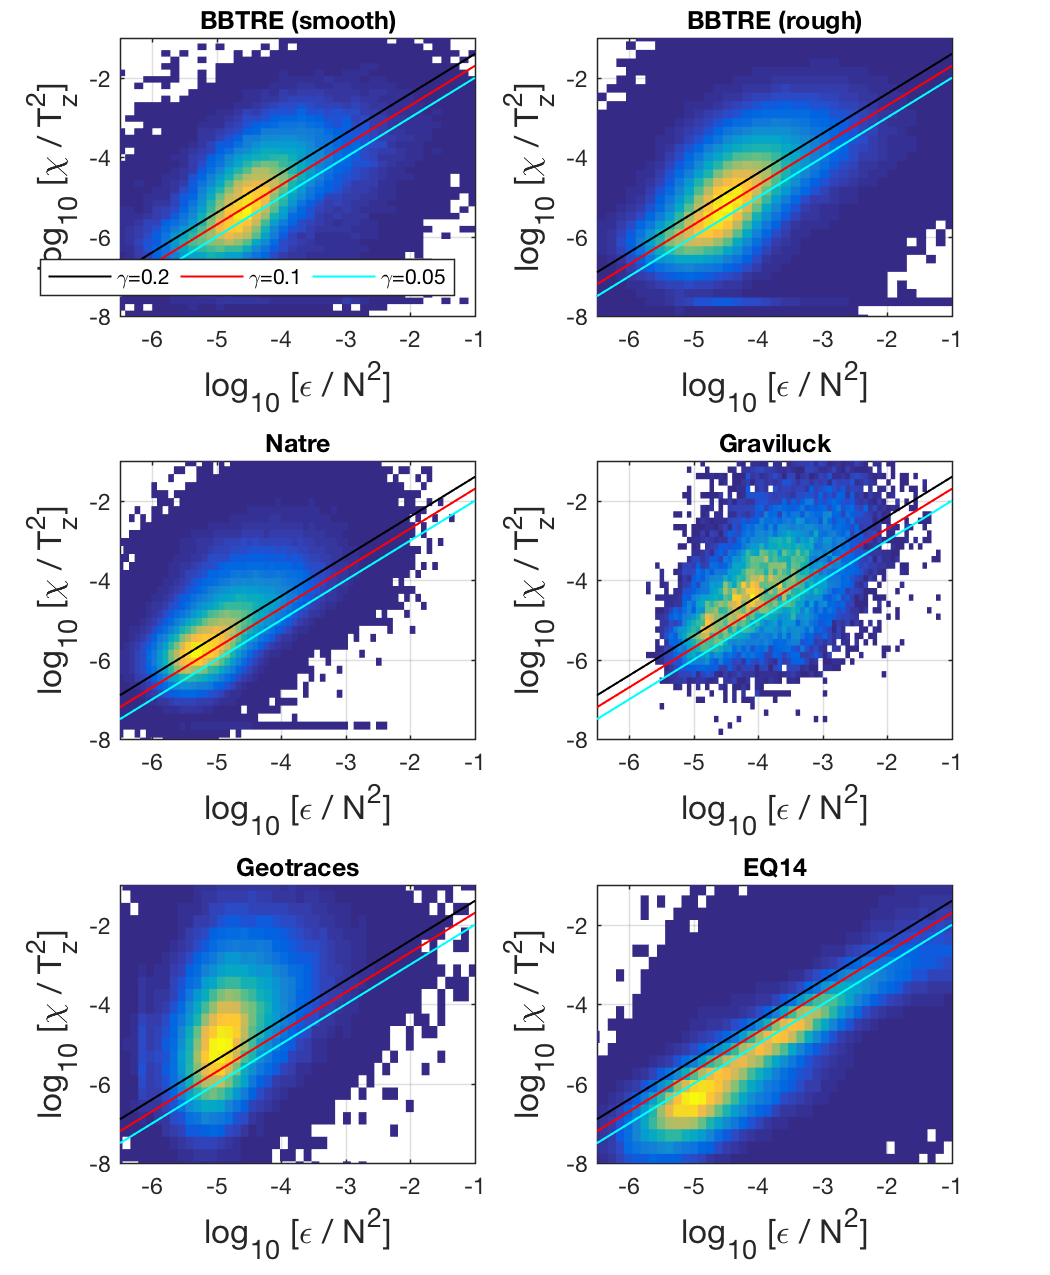
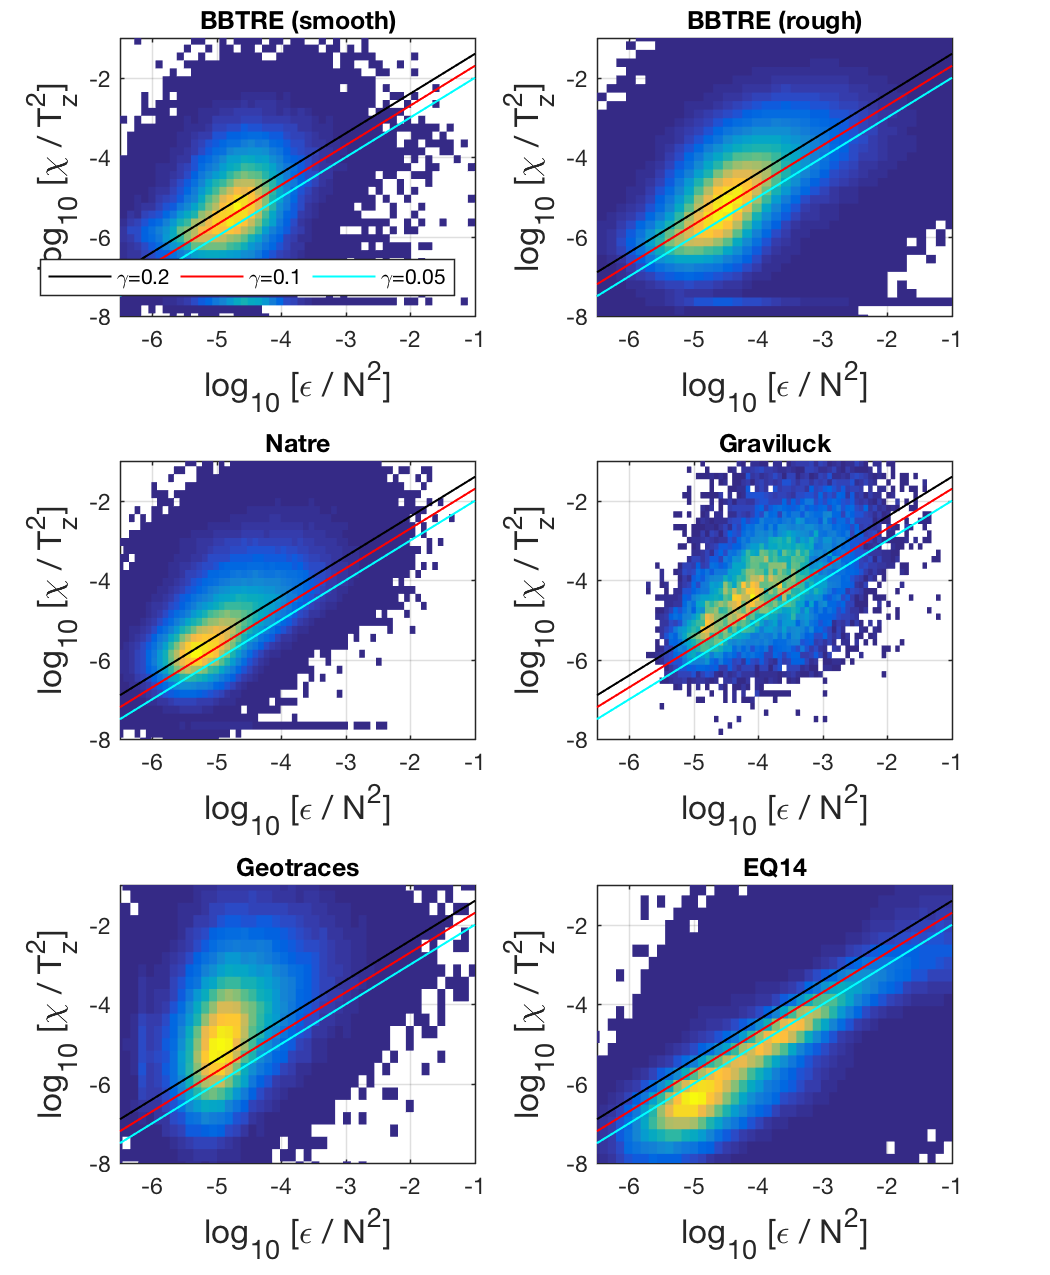
use function to load data

Changed region(s): [[0.0914, 0.0306, 0.4571, 0.2753]]

diff --git a/Andy_Pickering/micro_database/Plot_chi_eps_norm_all.m b/Andy_Pickering/micro_database/Plot_chi_eps_norm_all.m
@@ -11,10 +11,10 @@
 clear ; close all
 
 
-eps_thresh=0
-eps_floor=-10
+eps_thresh =  1
+eps_floor  = -10
 
-my_data_dir = '/Users/Andy/Google Drive/ChiCalculations/data/'
+%my_data_dir = '/Users/Andy/Google Drive/ChiCalculations/data/'
 fig_dir = '/Users/Andy/Cruises_Research/Analysis/Andy_Pickering/micro_database/figures'
 addpath /Users/Andy/Cruises_Research/Analysis/Andy_Pickering/gen_mfiles/
 
@@ -29,241 +29,16 @@ for i = [1:3,5,10]
     % close all
     clear tnm K presK Kt hrp hrp96 hrp97
     
-    if i == 3
-        
-        clear eps chi N2 dTdz hrp
-        
-        tnm = 'Natre';
-        %load('../../data/natre/natre_hrp_for_map.mat')
-        load( fullfile( my_data_dir,'natre','natre_hrp_for_map.mat'))
-        
-        K = 0.2 * hrp.eps ./ hrp.N2;
-        presK = hrp.pres;
-        
-        KT = 0.5 *  hrp.chit(1:end-1,:) ./ (diff(hrp.temp)./diff(hrp.pres)).^2;
-        
-        eps = hrp.eps;
-        chi = hrp.chit;
-        N2  = hrp.N2;
-        dTdz = (diffs(hrp.temp)./diffs(hrp.pres));% dTdz = [dTdz(:) ; nan];
-        eps_chi = N2 .* chi / 2 / 0.2 ./ (dTdz.^2);
-        
-    elseif i == 1
-        
-        clear hrp hrp96 hrp97 K KT eps chi N2 dTdz
-        tnm = 'BBTRE (smooth)';
-        %load('../../data/bbtre/bbtre_hrp_for_map.mat')
-        load( fullfile( my_data_dir,'bbtre','bbtre_hrp_for_map.mat'))
-        hrp96=hrp;  %[1:20,71:75]
-        %load('../../data/bbtre/bbtre97_hrp_for_map.mat')
-        load( fullfile( my_data_dir,'bbtre','bbtre97_hrp_for_map.mat'))
-        %hrp97=hrp;  % 1:36
-        % why isn't hrp97 used?
-        
-        % Krho?
-        hrp_bbtre_smooth = 0.2*([hrp96.eps(:, [2:5,7:20,71:74])])./([hrp96.N2(:, [2:5,7:20,71:74])]);
-        
-        K = hrp_bbtre_smooth;
-        presK=hrp96.pres(:, [2:5,7:20,71:74]);
-        
-        KT = 0.5 * hrp96.chit(1:end-1,[2:5,7:20,71:74]) ./ (diff(hrp96.temp(:,[2:5,7:20,71:74]))./diff(hrp96.pres(:,[2:5,7:20,71:74]))).^2;
-        
-        eps = hrp.eps(:, [2:5,7:20,71:74]);
-        chi = hrp.chit(:, [2:5,7:20,71:74]);
-        N2  = hrp.N2(:, [2:5,7:20,71:74]);
-        dTdz= (diffs(hrp.temp(:, [2:5,7:20,71:74]))./diffs(hrp.pres(:, [2:5,7:20,71:74])));% dTdz = [dTdz(:) ; nan];
-        eps_chi = N2 .* chi / 2 / 0.2 ./ (dTdz.^2);
-        
-        
-    elseif i == 2
-        
-        clear hrp hrp96 hrp97 K KT eps chi N2 dTdz
-        
-        tnm = 'BBTRE (rough)';
-        %load('../../data/bbtre/bbtre_hrp_for_map.mat')
-        load( fullfile( my_data_dir,'bbtre','bbtre_hrp_for_map.mat'))
-        hrp96=hrp;
-        %load('../../data/bbtre/bbtre97_hrp_for_map.mat')
-        load(fullfile(my_data_dir,'bbtre','bbtre97_hrp_for_map.mat'))
-        hrp97=hrp;
-        
-        % Krho?
-        % mixed hrp96 and hrp97?
-        hrp_bbtre_rough = 0.2*([hrp96.eps(1:10815,[1,6,21:70,75]) hrp97.eps(:,1:end)])./([hrp96.N2(1:10815,[1,6,21:70,75]) hrp97.N2(:,1:end)]);
-        K = hrp_bbtre_rough;
-        
-        presK = [hrp96.pres(1:10815,[1,6,21:70,75]) hrp97.pres(:,1:end)];
-        
-        KT = 0.5 * ([hrp96.chit(1:10815-1,[1,6,21:70,75]) hrp97.chit(1:end-1,1:end)])./  (diff([hrp96.temp(1:10815,[1,6,21:70,75]) hrp97.temp(:,1:end)])./diff([hrp96.pres(1:10815,[1,6,21:70,75]) hrp97.pres(:,1:end)])).^2;
-        
-        clear temp p
-        temp = [hrp96.temp(1:10815,[1,6,21:70,75]) hrp97.temp(:,1:end)];
-        p= [hrp96.pres(1:10815,[1,6,21:70,75]) hrp97.pres(:,1:end)];
-        
-        eps = [hrp96.eps(1:10815,[1,6,21:70,75]) hrp97.eps(:,1:end)];
-        chi = [hrp96.chit(1:10815,[1,6,21:70,75]) hrp97.chit(:,1:end)];%hrp.chit;
-        N2  = [hrp96.N2(1:10815,[1,6,21:70,75]) hrp97.N2(:,1:end)];%hrp.N2;
-        dTdz= diffs(temp)./diffs(p);% dTdz = [dTdz(:) ; nan];
-        eps_chi = N2 .* chi / 2 / 0.2 ./ (dTdz.^2);
-        
-    elseif i == 4
-        
-        %** missing chi? **
-        
-        clear hrp hrp96 hrp97 K KT eps chi N2 dTdz
-        
-        tnm = 'Ladder';
-        %load('../../data/ladder/ladder_hrp_for_map.mat')
-        load (fullfile( my_data_dir,'ladder','ladder_hrp_for_map.mat'))
-        K = 0.2 * hrp.eps ./ hrp.N2;
-        presK = hrp.pres;
-        
-        KT = 0.5 *  hrp.chit(1:end-1,:) ./ (diff(hrp.temp)./diff(hrp.pres)).^2;
-        
-        eps = hrp.eps;
-        chi = hrp.chit;
-        N2  = hrp.N2;
-        dTdz= (diffs(hrp.temp)./diffs(hrp.pres));% dTdz = [dTdz(:) ; nan];
-        eps_chi = N2 .* chi / 2 / 0.2 ./ (dTdz.^2);
-        
-        
-    elseif i == 5
-        
-        tnm = 'Graviluck';
-        
-        clear hrp hrp96 hrp97 K KT eps chi N2 dTdz
-        
-        % only plot down to 2216m since below that one profile exists
-        %load('../../data/graviluck/graviluck_hrp_for_map.mat')
-        load(fullfile(my_data_dir,'graviluck','graviluck_hrp_for_map.mat'))
-        K = 0.2 * hrp.eps ./ hrp.N2;
-        presK = hrp.pres;
-        
-        KT = 0.5 *  hrp.chit(1:end-1,:) ./ (diff(hrp.temp)./diff(hrp.pres)).^2;
-        
-        eps = hrp.eps;
-        chi = hrp.chit;
-        N2  = hrp.N2;
-        dTdz= (diffs(hrp.temp)./diffs(hrp.pres));% dTdz = [dTdz(:) ; nan];
-        eps_chi = N2 .* chi / 2 / 0.2 ./ (dTdz.^2);
-        
-    elseif i == 6
-        
-        %** no chi **
-        
-        clear hrp hrp96 hrp97 K KT eps chi N2 dTdz
-        
-        tnm= 'Fieberling';
-        %load('../../data/fieberling/fieberling_hrp_for_map.mat')
-        load( fullfile( my_data_dir,'fieberling','fieberling_hrp_for_map.mat'))
-        K = 0.2 * hrp.eps ./ hrp.N2;
-        presK = hrp.pres;
-        
-        KT = 0.5 *  hrp.chit(1:end-1,:) ./ (diff(hrp.temp)./diff(hrp.pres)).^2;
-        
-        eps = hrp.eps;
-        chi = hrp.chit;
-        N2  = hrp.N2;
-        dTdz= (diffs(hrp.temp)./diffs(hrp.pres));% dTdz = [dTdz(:) ; nan];
-        eps_chi = N2 .* chi / 2 / 0.2 ./ (dTdz.^2);
-        
-    elseif i == 7
-        
-        % ** no chi?
-        
-        clear hrp K KT eps chi N2 dTdz
-        
-        tnm= 'Dimes_{DP}';
-        %load('../../data/dimes/dimes_hrp_for_map.mat')
-        load( fullfile( my_data_dir,'dimes','dimes_hrp_for_map.mat'))
-        K = 0.2 * hrp.eps ./ hrp.N2;
-        presK = hrp.pres;
-        
-        KT = 0.5 *  hrp.chit(1:end-1,:) ./ (diff(hrp.temp)./diff(hrp.pres)).^2;
-        
-        eps = hrp.eps;
-        chi = hrp.chit;
-        N2  = hrp.N2;
-        dTdz= (diffs(hrp.temp)./diffs(hrp.pres));% dTdz = [dTdz(:) ; nan];
-        eps_chi = N2 .* chi / 2 / 0.2 ./ (dTdz.^2);
-        
-    elseif i == 8
-        
-        clear hrp K KT eps chi N2 dTdz
-        
-        tnm= 'Dimes_{West}';
-        %load('../../data/dimes/dimes_pacific_hrp_for_map.mat')
-        load( fullfile( my_data_dir,'dimes','dimes_pacific_hrp_for_map.mat'))
-        K = 0.2 * hrp.eps ./ hrp.N2;
-        presK = hrp.pres;
-        
-        KT = 0.5 *  hrp.chit(1:end-1,:) ./ (diff(hrp.temp)./diff(hrp.pres)).^2;
-        
-        eps = hrp.eps;
-        chi = hrp.chit;
-        N2  = hrp.N2;
-        dTdz= (diffs(hrp.temp)./diffs(hrp.pres));% dTdz = [dTdz(:) ; nan];
-        eps_chi = N2 .* chi / 2 / 0.2 ./ (dTdz.^2);
-        
-    elseif i == 9
-        
-        clear hrp K KT eps chi N2 dTdz
-        
-        tnm= 'Toto';
-        %load('../../data/toto/toto_hrp_for_map.mat')
-        load( fullfile( my_data_dir, 'toto','toto_hrp_for_map.mat'))
-        K = 0.2 * hrp.eps ./ hrp.N2;
-        presK = hrp.pres;
-        
-        KT = 0.5 *  hrp.chit(1:end-1,:) ./ (diff(hrp.temp)./diff(hrp.pres)).^2;
-        
-        eps = hrp.eps;
-        chi = hrp.chit;
-        N2  = hrp.N2;
-        dTdz= (diffs(hrp.temp)./diffs(hrp.pres));% dTdz = [dTdz(:) ; nan];
-        eps_chi = N2 .* chi / 2 / 0.2 ./ (dTdz.^2);
-        
-    elseif i == 10
-        tnm = 'Geotraces';
-        % * note chi, not chit
-        clear K KT eps chi N2 dTdz eps_chi
-        %load('../../data/geotraces/geotraces_hrp_for_map.mat');
-        load( fullfile( my_data_dir,'geotraces','geotraces_hrp_for_map.mat'))
-        K = 0.2 * hrp.eps ./ hrp.N2;
-        presK = hrp.pres;
-        
-        KT = 0.5 *  hrp.chi(1:end-1,:) ./ (diff(hrp.temp)./diff(hrp.pres)).^2;
-        
-        eps = hrp.eps;
-        chi = hrp.chi;
-        N2  = hrp.N2;
-        dTdz= (diffs(hrp.temp)./diffs(hrp.pres));% dTdz = [dTdz(:) ; nan];
-        eps_chi = N2 .* chi / 2 / 0.2 ./ (dTdz.^2);
-        
-    end
+    clear mix
+    mix = Load_micro_data_mat(i,eps_thresh,eps_floor) ;
+    
     
     %~~ make figures
     
-    
-    if eps_thresh==1
-        ib = find(log10(eps)<eps_floor);
-        eps(ib)=nan;
-        eps_chi(ib)=nan;
-        chi(ib)=nan;
-        % axlims=[eps_floor -6];
-    else
-        % axlims=[-12 -6];
-        
-    end
-    
-    %~~~~~~~~~~~
-    
-    
-    
     figure(2)
     subplot(3,2,iax)
-    h = chi_vs_eps_normalized_plot(eps, chi, N2, dTdz) ;
-    title(tnm)
+    h = chi_vs_eps_normalized_plot(mix.eps, mix.chi, mix.N2, mix.dTdz) ;
+    title(mix.project)
     
     if iax~=1
         legend('off')
@@ -283,7 +58,7 @@ if eps_thresh==1
     ib = find(log10(cham.EPSILON)<-8.5);
     %ib = find(cham.P<80);
     cham.EPSILON(ib)=nan;
-%    eps_chi(ib)=nan;
+    %    eps_chi(ib)=nan;
 end
 
 
@@ -291,6 +66,8 @@ subplot(3,2,6)
 h = chi_vs_eps_normalized_plot(cham.EPSILON, cham.CHI, cham.N2, cham.DTDZ) ;
 title('EQ14')
 legend('off')
+
+
 %%
 
 if eps_thresh==1
